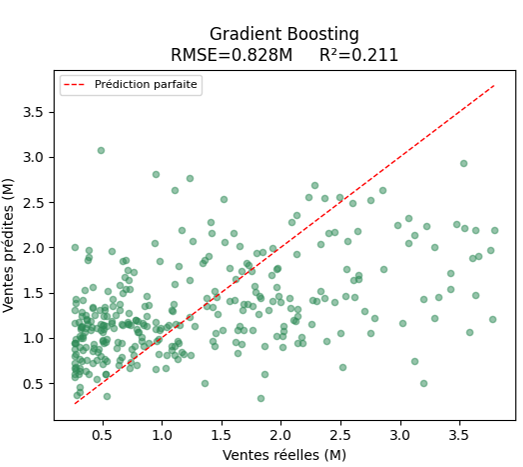
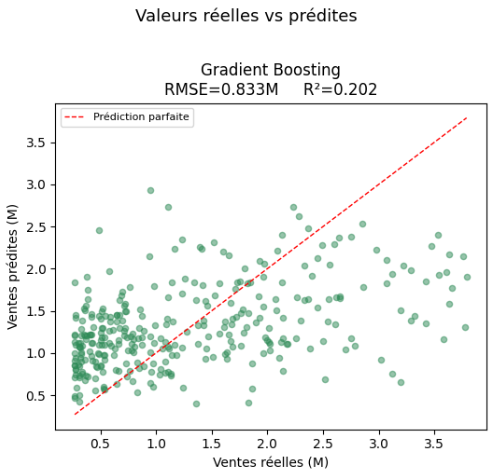
Correction des graphiques et interprétation

diff --git a/Site_web/frontend/documentation.php b/Site_web/frontend/documentation.php
@@ -3,12 +3,12 @@ session_start();
 
 $donnees = [
     'gradient_boosting' => [
-        'type1' => ['RMSE' => '0.757', 'MAE' => '0.603', 'R²' => '0.246', 'image' => 'images/graphe_VP_vs_VR_GB_datacomplet.png'],
-        'type2' => ['RMSE' => '0.833', 'MAE' => '0.669', 'R²' => '0.202', 'image' => 'images/graphe_VP_vs_VR_GB_moyen.png'],
+        'type1' => ['RMSE' => '0.757', 'MAE' => '0.603', 'R²' => '0.246', 'image' => 'images/graphe_VP_vs_VR_GB_moyen.png'],
+        'type2' => ['RMSE' => '0.833', 'MAE' => '0.669', 'R²' => '0.202', 'image' => 'images/graphe_VP_vs_VR_GB_petit.png'],
     ],
     'random_forest' => [
-        'type1' => ['RMSE' => '0.762', 'MAE' => '0.608', 'R²' => '0.232', 'image' => 'images/graphe_VP_vs_VR_RF_datacomplet.png'],
-        'type2' => ['RMSE' => '0.846', 'MAE' => '0.679', 'R²' => '0.177', 'image' => 'images/graphe_VP_vs_VR_RF_moyen.png'],
+        'type1' => ['RMSE' => '0.762', 'MAE' => '0.608', 'R²' => '0.232', 'image' => 'images/graphe_VP_vs_VR_RF_moyen.png'],
+        'type2' => ['RMSE' => '0.846', 'MAE' => '0.679', 'R²' => '0.177', 'image' => 'images/graphe_VP_vs_VR_RF_petit.png'],
     ],
 ];
 
@@ -20,12 +20,12 @@ $explications = [
 
 $description_graphe = [
     'gradient_boosting' => [
-        'type1' => "Avec un RMSE de 0.757 et un R² = 0.24, Gradient Boosting est le plus performant des deux modèles. Ses points s'alignent relativement mieux autour de la ligne rouge pour les ventes faibles à moyennes (0-1.5M). Cependant, comme les autres modèles, il sous-estime systématiquement les ventes élevées (>2M), où les points s'éloignent nettement de la diagonale.",
-        'type2' => "Avec un RMSE de 0.833 et un R² = 0.202, Gradient Boosting est le plus performant des deux modèles. Ses points s'alignent relativement mieux autour de la ligne rouge pour les ventes faibles à moyennes (0-1,5M). Cependant, comme les autres modèles, il sous-estime systématiquement les ventes élevées (>2M), où les points s'éloignent nettement de la diagonale.",
+        'type1' => "Avec un RMSE de 0.833 et un R² = 0.202, Gradient Boosting est le plus performant des deux modèles. Ses points s'alignent relativement mieux autour de la ligne rouge pour les ventes faibles à moyennes (0-1,5M). Cependant, comme les autres modèles, il sous-estime systématiquement les ventes élevées (>2M), où les points s'éloignent nettement de la diagonale.",
+        'type2' => "Avec un RMSE de 0,229 et un R² = 0,173, Gradient Boosting est le plus performant des deux modèles. Ses points s'alignent relativement mieux autour de la ligne rouge pour les ventes faibles à moyennes (0–0,4M). Cependant, au-delà de 0,4M, la dispersion augmente nettement et les prédictions deviennent peu fiables. Gradient Boosting est légèrement supérieur à Random Forest grâce à son R² plus élevé.",
     ],
     'random_forest' => [
-        'type1' => "Random Forest affiche des résultats très proches (RMSE=0.763, R²=0.232). La distribution de ses points (en bleu) est similaire à celle du Gradient Boosting, avec une légère dispersion supplémentaire pour les ventes entre 0 et 1M. Il échoue lui aussi à prédire les valeurs au dessus de 2M.",
-        'type2' => "Random Forest affiche des résultats très proches (RMSE=0,846, R²=0,177). La distribution de ses points (en bleu) est similaire à celle du Gradient Boosting, avec une légère dispersion supplémentaire pour les ventes entre 0 et 1M. Il échoue lui aussi à prédire les valeurs au dessus de 2M.",
+        'type1' => "Random Forest affiche des résultats très proches (RMSE = 0,846, R² = 0,177). La distribution de ses points (en bleu) est similaire à celle du Gradient Boosting, avec une légère dispersion supplémentaire pour les ventes entre 0 et 1M. Il échoue lui aussi à prédire les valeurs au dessus de 2M.",
+        'type2' => "Random Forest affiche des résultats identiques (RMSE = 0,229, R² = 0,169). La distribution de ses points est similaire à celle du Gradient Boosting, avec une dispersion comparable sur la plage 0–0,4M. Il échoue lui aussi à prédire de manière fiable les valeurs au-dessus de 0,4M.",
     ],
 
 ];
@@ -71,8 +71,8 @@ $valeurs = ($modele && $type) ? ($donnees[$modele][$type] ?? null) : null;
                         <?php if ($modele): ?>
                         <select name="type_docu" onchange="this.form.submit()">
                             <option value="">-- Choisir le type --</option>
-                            <option value="type1" <?= $type === 'type1' ? 'selected' : '' ?>>Grand jeu de données</option>
-                            <option value="type2" <?= $type === 'type2' ? 'selected' : '' ?>>Moyen jeu de données</option>
+                            <option value="type1" <?= $type === 'type1' ? 'selected' : '' ?>>Moyen jeu de données</option>
+                            <option value="type2" <?= $type === 'type2' ? 'selected' : '' ?>>Petit jeu de données</option>
                         </select>
                         <?php endif; ?>
                     </form>
